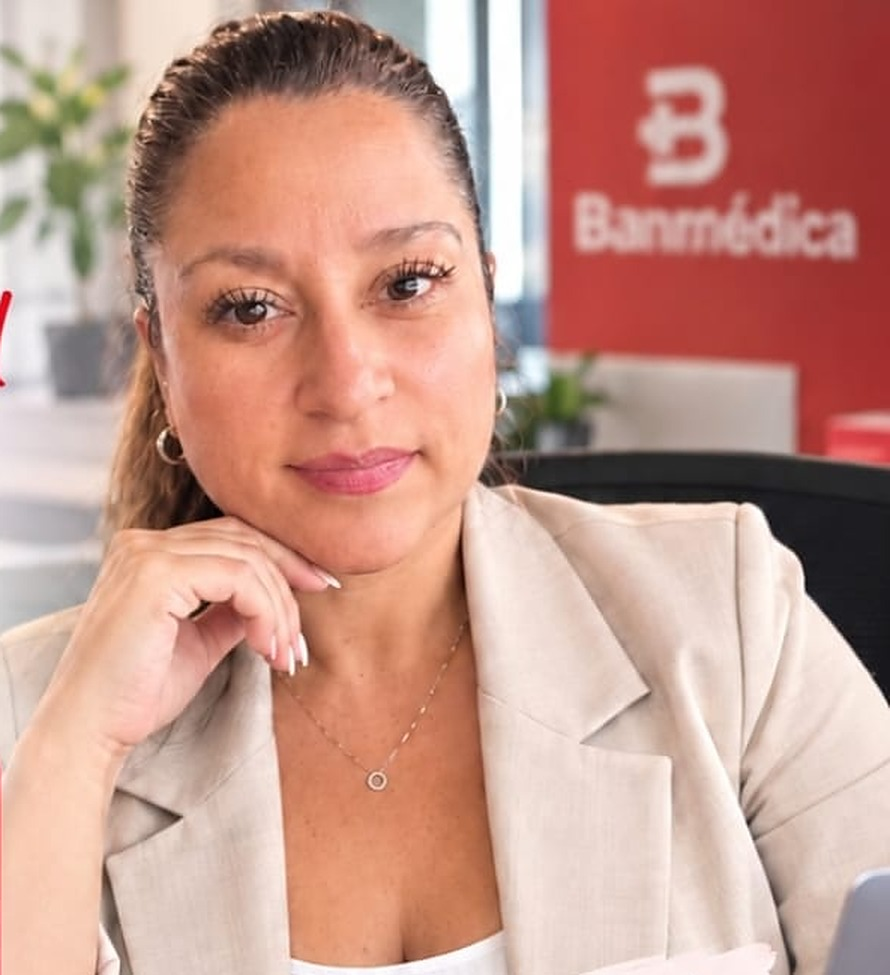
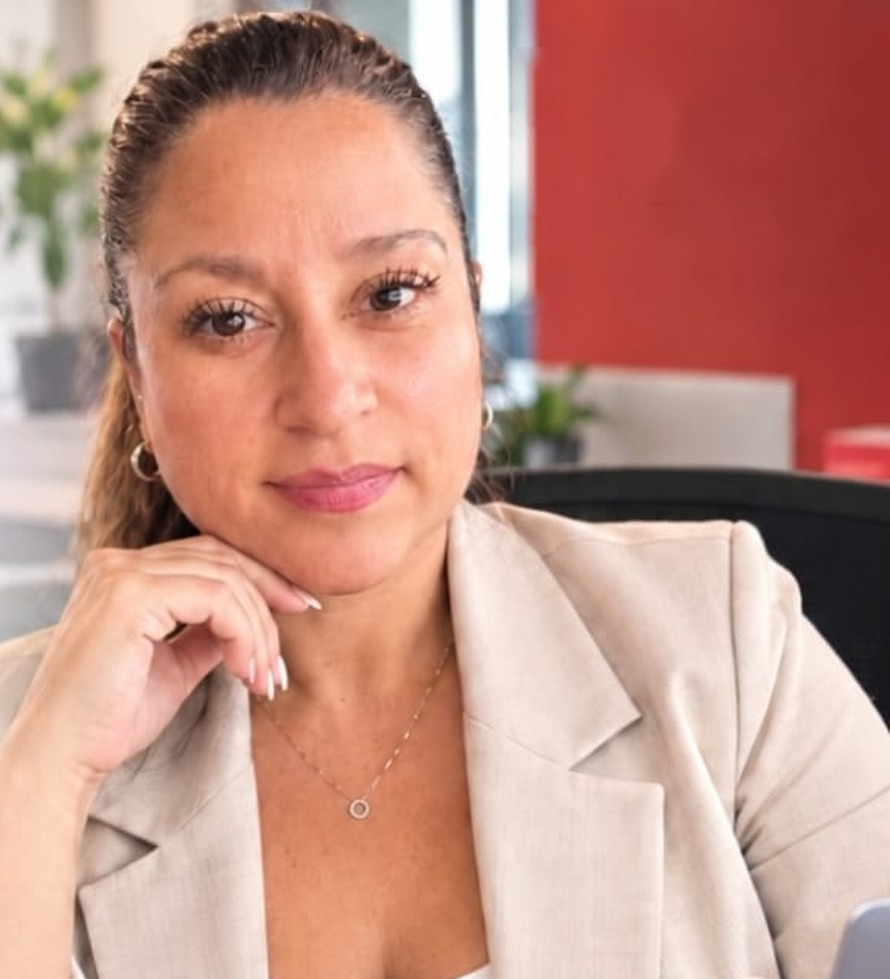
Carol: foto sin letrero Banmedica duplicado, encuadre celular

diff --git a/salud/banmedica/carol-jara/index.html b/salud/banmedica/carol-jara/index.html
@@ -270,7 +270,7 @@
             .pilar:last-child { border-bottom: 0; }
             .hero-grid { grid-template-columns: 1fr; gap: 36px; }
             .hero-visual { max-width: 320px; padding-bottom: 64px; justify-self: start; }
-            .hero-foto { aspect-ratio: 4 / 3.5; object-position: 50% 12%; }
+            .hero-foto { aspect-ratio: 4 / 4.2; object-position: 50% 0; }
             .chat { left: 12px; }
             .franja { grid-template-columns: repeat(2, 1fr); row-gap: 8px; }
             .pasos { grid-template-columns: repeat(2, 1fr); }
@@ -333,7 +333,7 @@
                 </div>
             </div>
             <div class="hero-visual">
-                <img src="img/carol2.jpg?v=1" alt="Carol Jara, Asesora Comercial Banmédica" class="hero-foto" width="640" height="704">
+                <img src="img/carol2.jpg?v=2" alt="Carol Jara, Asesora Comercial Banmédica" class="hero-foto" width="640" height="704">
                 <div class="chat" role="img" aria-label="Mensaje de Carol Jara">
                     <div class="chat-nombre">Carol Jara</div>
                     <div class="chat-texto">Hola, soy Carol Jara. Cuéntame qué plan tienes hoy y te respondo por WhatsApp en unos momentos.</div>
